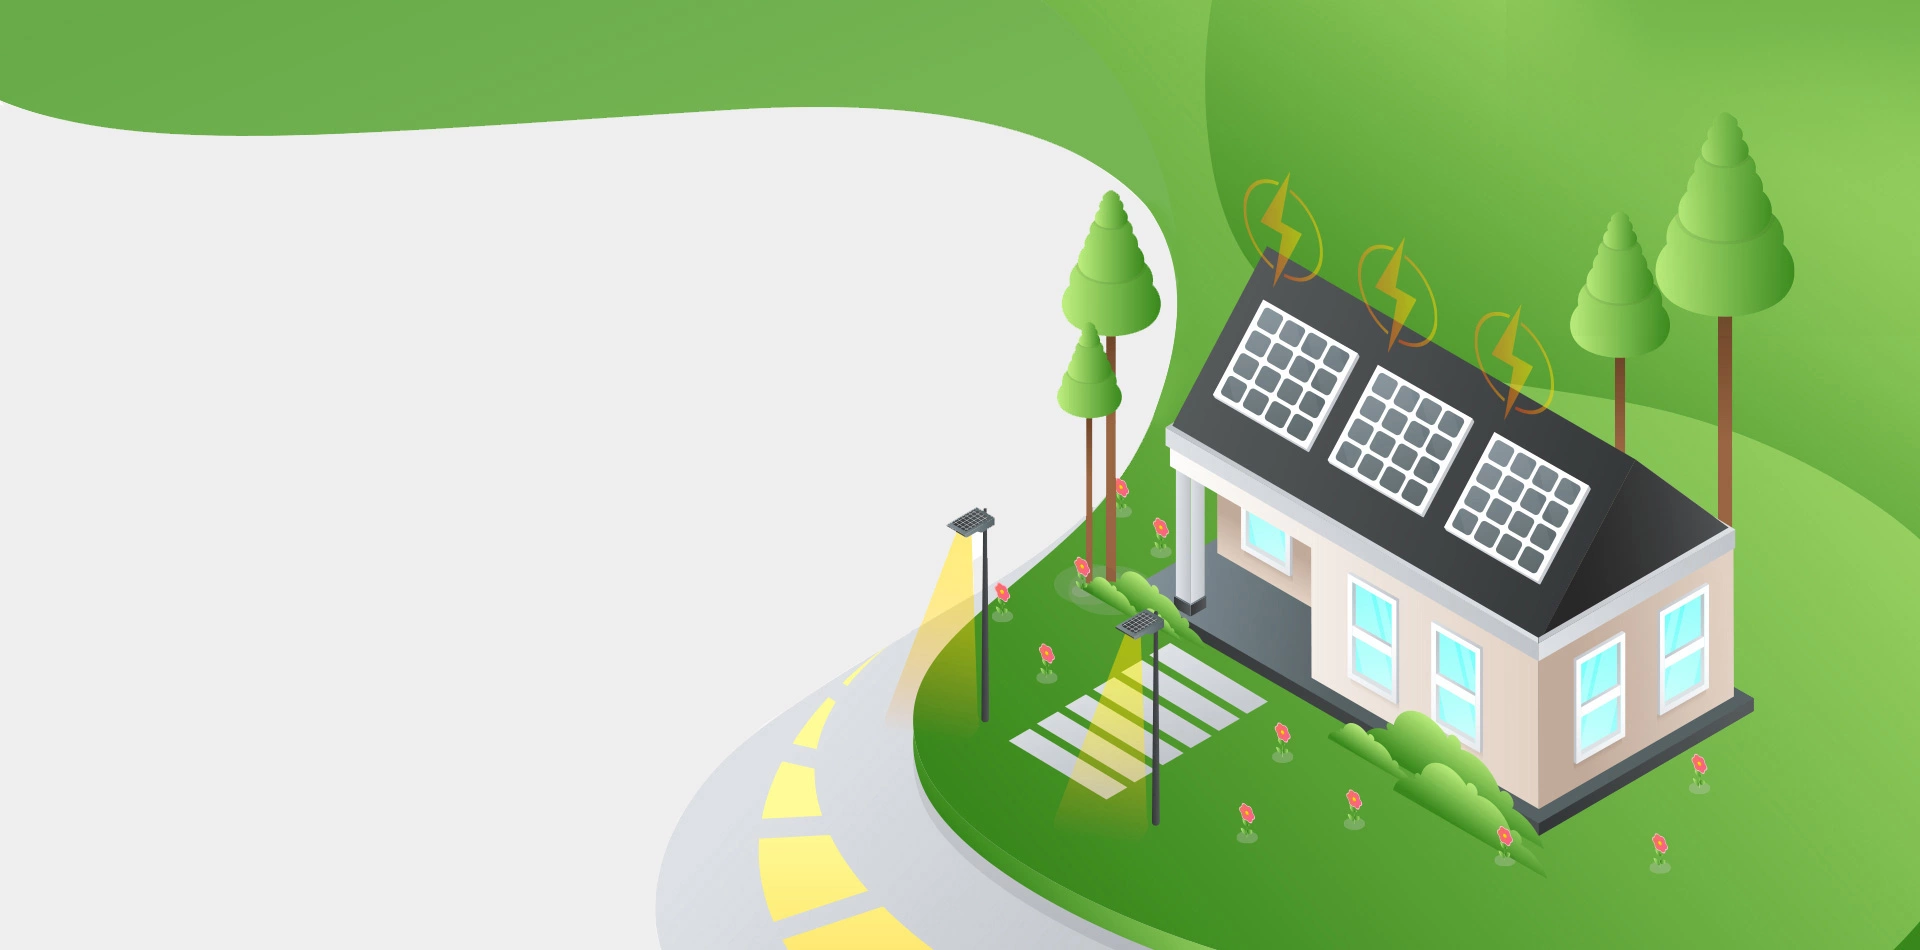
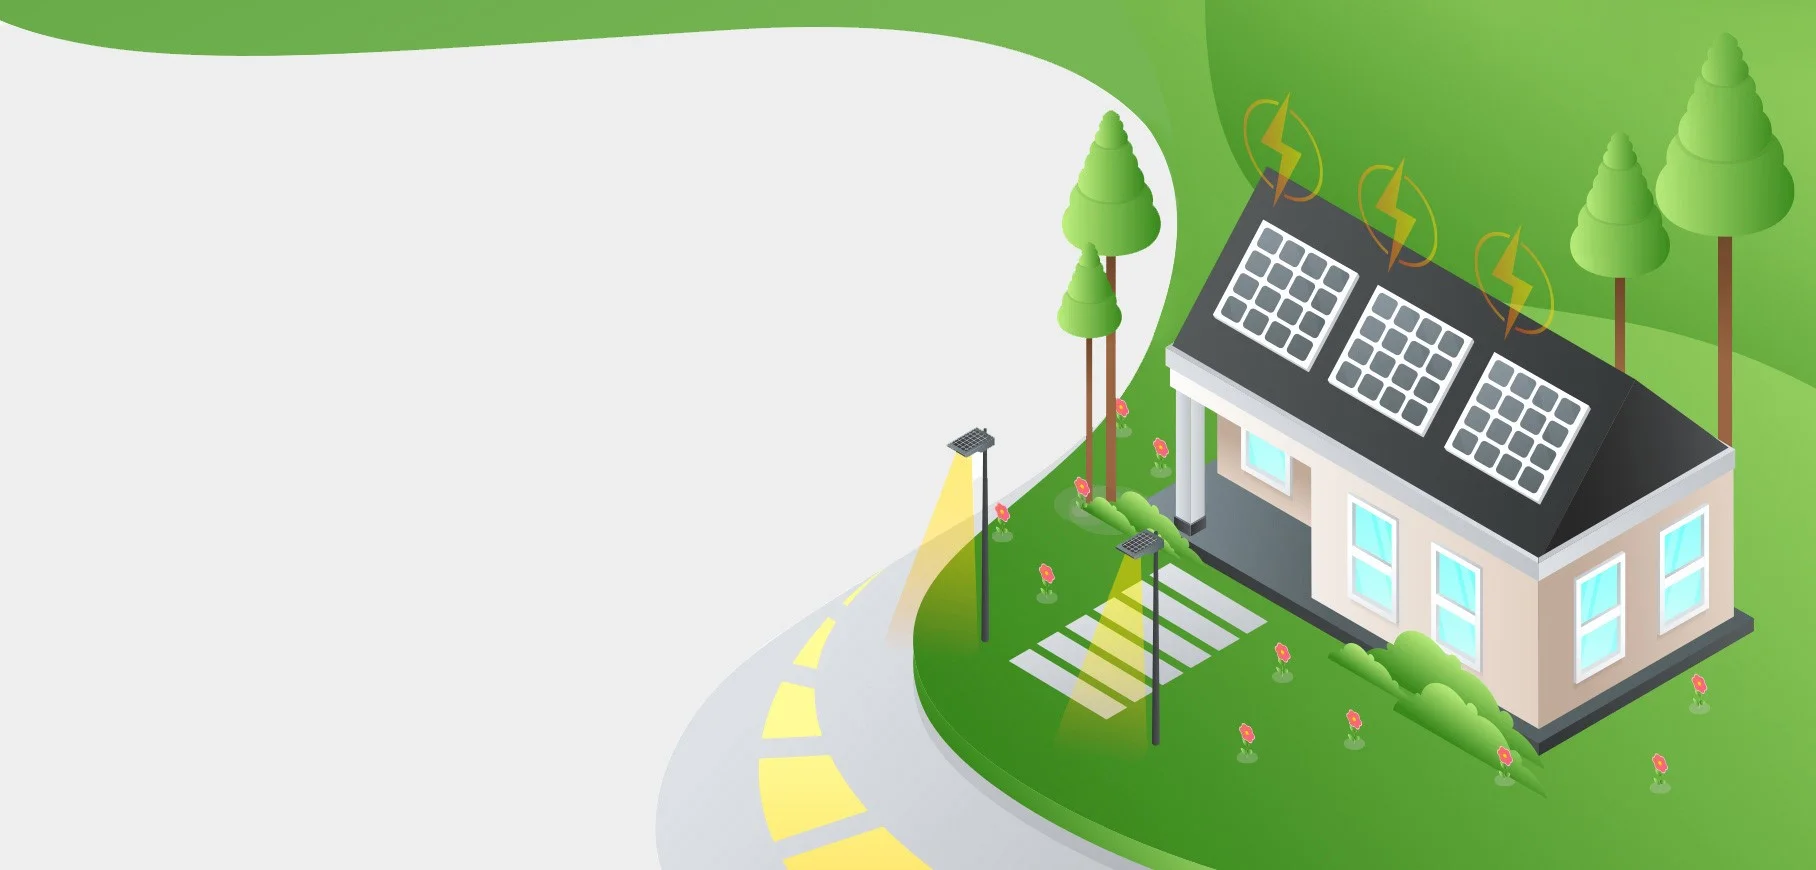
changing nav

Changed region(s): [[0.0, 0.031, 1.0, 1.0], [0.9868, 0.9621, 1.0, 1.0], [0.8943, 0.869, 0.9251, 0.9]]

diff --git a/src/components/Header/Navbar/index.tsx b/src/components/Header/Navbar/index.tsx
@@ -6,7 +6,7 @@ import "./styles.css"
 
 export const NavBar = () =>{
   return(
-    <Navbar collapseOnSelect expand="lg" style={{background: "linear-gradient(90deg, rgba(102,177,79,0.9948354341736695) 32%, rgba(102,177,79,0.7959558823529411) 77%)"}} variant="dark">
+    <Navbar collapseOnSelect expand="lg" style={{background: "linear-gradient(90deg, rgba(12,77,129,0.7287289915966386) 32%, rgba(12,77,129,0.7315301120448179) 77%)"}} variant="dark">
   <Container>
   <Navbar.Brand href="#home" style={{fontWeight:"bolder"}}><span className='logoColor'>SOL</span><span className='logoColor2'>ARIC</span></Navbar.Brand>
   <Navbar.Toggle aria-controls="responsive-navbar-nav" />
@@ -15,13 +15,13 @@ export const NavBar = () =>{
       
     </Nav>
     <Nav style={{fontWeight:"bolder"}} >
-    <Nav.Link href="#featuress" style={{color:"white"}}>Home</Nav.Link>
-      <Nav.Link href="#deets" style={{color:"white"}}>Packages</Nav.Link>
-      <Nav.Link href="#memes" style={{color:"white"}}>Solar Calculator</Nav.Link>
-      <Nav.Link href="#memes" style={{color:"white"}}>Services</Nav.Link>
+    <Nav.Link href="#featuress" style={{color:"white",fontSize:"20px"}}>Home</Nav.Link>
+      <Nav.Link href="#deets" style={{color:"white",fontSize:"20px"}}>Packages</Nav.Link>
+      <Nav.Link href="#memes" style={{color:"white",fontSize:"20px"}}>Solar Calculator</Nav.Link>
+      <Nav.Link href="#memes" style={{color:"white",fontSize:"20px"}}>Services</Nav.Link>
       {/* <Nav.Link href="#memes" style={{color:"white"}}>Contact</Nav.Link> */}
       <NavDropdown title={
-        <span style={{color:"white"}}> 
+        <span style={{color:"white",fontSize:"20px"}}> 
           About
         </span>
       } className="#nav-dropdown" id="collasible-nav-dropdown">
@@ -35,5 +35,42 @@ export const NavBar = () =>{
   </Navbar.Collapse>
   </Container>
 </Navbar>
-  )
+)
 } 
+
+{/* <Navbar key="lg" style={{background: "linear-gradient(90deg, rgba(102,177,79,0.9948354341736695) 32%, rgba(102,177,79,0.7959558823529411) 77%)"}} variant="dark" expand="lg" className="mb-3">
+          <Container fluid>
+            <Navbar.Brand href="#home" style={{fontWeight:"bolder"}}><span className='logoColor'>SOL</span><span className='logoColor2'>ARIC</span></Navbar.Brand>
+            <Navbar.Toggle aria-controls={`offcanvasNavbar-expand-lg`} />
+            <Navbar.Offcanvas
+              id={`offcanvasNavbar-expand-lg`}
+              aria-labelledby={`offcanvasNavbarLabel-expand-lg`}
+              placement="end"
+            >
+              <Offcanvas.Header closeButton>
+                <Offcanvas.Title id={`offcanvasNavbarLabel-expand-lg`}>
+                  Offcanvas
+                </Offcanvas.Title>
+              </Offcanvas.Header>
+              <Offcanvas.Body>
+                <Nav className="justify-content-end flex-grow-1 pe-3">
+                  <Nav.Link href="#action1">Home</Nav.Link>
+                  <Nav.Link href="#action2">Link</Nav.Link>
+                  <NavDropdown
+                    title="Dropdown"
+                    id={`offcanvasNavbarDropdown-expand-lg`}
+                  >
+                    <NavDropdown.Item href="#action3">Action</NavDropdown.Item>
+                    <NavDropdown.Item href="#action4">
+                      Another action
+                    </NavDropdown.Item>
+                    <NavDropdown.Divider />
+                    <NavDropdown.Item href="#action5">
+                      Something else here
+                    </NavDropdown.Item>
+                  </NavDropdown>
+                </Nav>
+              </Offcanvas.Body>
+            </Navbar.Offcanvas>
+          </Container>
+        </Navbar> */}

diff --git a/src/components/ContactUs/ContactUs.tsx b/src/components/ContactUs/ContactUs.tsx
@@ -93,6 +93,7 @@ const styles ={
         height:"45px",
         cursor:"pointer",
         borderRadius:"30px",
+        marginX:"8px",
         display:"flex",
         color:"#04610d",
         "&:hover":{
@@ -136,20 +137,28 @@ const styles ={
         '@media (max-width : 970px)':{
             width:"80%",
             } ,
-            '@media (max-width : 400px)':{
-                fontSize:"25px"
+            '@media (max-width : 340px)':{
+                fontSize:"20px",
+                width:"90%"
                 } 
+                // ,
+                // '@media (max-width : 400px)':{
+                //     fontSize:"25px"
+                //     } 
     },
     LocationAndContact:{
         fontSize:"16px",
         fontFamily:"Montserrat,sans-serif",
         '@media (max-width : 350px)':{
-            fontSize:"12px",
+            fontSize:"10px",
             }
     },
     smallCallHeading:{
         fontSize:"25px",
-        fontFamily:"Montserrat,sans-serif"
+        fontFamily:"Montserrat,sans-serif", 
+        '@media (max-width : 340px)':{
+            fontSize:"18px",
+            } 
     },
     NumberHeading:{
         fontSize:"40px",
@@ -164,7 +173,7 @@ const styles ={
                     fontSize:"20px",
                     } , 
                     '@media (max-width : 340px)':{
-                        fontSize:"17px",
+                        fontSize:"13px",
                         } 
     },
     contactDetails:{
@@ -241,13 +250,13 @@ It is a long established fact that a reader will be distracted by the readable c
             {/* <Box sx={styles.contactDetails}> */}
             
             <Heading sx={styles.LocationAndContact}>
-                <span  className='iconMargin'><LocationOnIcon/></span>Wapda Mangla Colony, Wapda office, Pakistan
+                <span  className='iconMargin'><LocationOnIcon  className="iconStyles2"/></span>Wapda Mangla Colony, Wapda office, Pakistan
             </Heading>
             <Heading sx={styles.LocationAndContact}>
-            <span  className='iconMargin'><PublicIcon/></span>www.NetMetering.com
+            <span  className='iconMargin'><PublicIcon  className="iconStyles2"/></span>www.NetMetering.com
             </Heading>
             <Heading sx={styles.LocationAndContact}>
-            <span  className='iconMargin'><EmailIcon/></span>WebDeveloper.Bilal@gmail.com
+            <span  className='iconMargin'><EmailIcon  className="iconStyles2"/></span>WebDeveloper.Bilal@gmail.com
             </Heading>
             
 <Box sx={styles.callBox}>

diff --git a/src/pages/index.tsx b/src/pages/index.tsx
@@ -1,5 +1,4 @@
 import React from "react"
-import { Slider2 } from "../components/Carousel/Slider2"
 import ContactUs from "../components/ContactUs/ContactUs"
 import {NavBar} from "../components/Header/Navbar"
 import Hero from "../components/HomeDisplay/Hero"
@@ -10,26 +9,23 @@ import Services from "../components/Services/Services"
 import Insight from "../components/Insights/Insights"
 import Packages from "../components/Packages/Packages"
 import GetUs from "../components/GetUs/GetUs"
+import { Box } from "theme-ui"
 
 export default function Home() {
-  return <div>
+  return <Box>
     <><link rel="preconnect" href="https://fonts.googleapis.com"/>
 <link rel="preconnect" href="https://fonts.gstatic.com" cross-origin/>
-<link href="https://fonts.googleapis.com/css2?family=Gideon+Roman&family=Montserrat:wght@100;200;300;400;500;600;700;800;900&display=swap" rel="stylesheet"/></>
+<link href="https://fonts.googleapis.com/css2?family=Gideon+Roman&family=Montserrat:wght@100;200;300;400;500;600;700;800;900&display=swap" rel="stylesheet"/>
+</>
      <NavBar/>
    <Hero/>
     <Part2/>
     <Services/>
     <Insight/>
-    <Testimonial/> 
+    <Testimonial/>
     <GetUs/>
     <Packages/>
 <Partners/>
 <ContactUs/>
-  </div>
+  </Box>
 }
-/***
- * calculator
- * packages
- * gallery
- */

diff --git a/src/components/HomeDisplay/Hero.tsx b/src/components/HomeDisplay/Hero.tsx
@@ -6,12 +6,12 @@ import { Box, Heading, Text,Button } from 'theme-ui'
 import './styles.css'
 const styles = {
   mainBox:{
-  marginTop:"-65px",
+  // marginTop:"-65px",
   backgroundImage:`url(${head})`,
   backgroundRepeat:"no-repeat",
   backgroundSize:"cover",
   width:"100%",
-  height:"720px"
+  height:"590px"
 },
     mainHeading:{
             fontSize:"60px",
@@ -42,7 +42,7 @@ const styles = {
           
     },
     subBox:{
-        marginTop:"300px",
+        marginTop:"200px",
         marginLeft:"50px",
         '@media (max-width:530px )': {
             marginLeft:"30px"
@@ -109,7 +109,7 @@ buttonVariant:{
         color:"#002A4C",
         background:"transparent",
         border:"2px solid #002A4C"
-    },
+      },
     "&:active":{
         color:"#002A4C",
         background:"transparent",

diff --git a/src/components/Header/Navbar/styles.css b/src/components/Header/Navbar/styles.css
@@ -4,15 +4,18 @@
 .logoColor{
     /* color: rgb(16, 155, 173); */
     color: rgb(255, 255, 255);
-font-size: 25px;
+font-size: 35px;
 }
 .logoColor2{
     /* color: rgb(6, 55, 133); */
     color: rgb(255, 255, 255);
     font-style: italic;
-font-size: 25px;
+font-size: 35px;
     font-family: 'Trebuchet MS', 'Lucida Sans Unicode', 'Lucida Grande', 'Lucida Sans', Arial, sans-serif;
 }
 .navLinkColors{
     color:rgb(16, 155, 173)
+}
+.row-col-8{
+    float:right;
 }

diff --git a/src/pages/packages.tsx b/src/pages/packages.tsx
@@ -1,0 +1,12 @@
+import React from 'react'
+import { Box } from 'theme-ui'
+
+const packages = () => {
+  return (
+    <Box>
+        Packages
+    </Box>
+  )
+}
+
+export default packages

diff --git a/src/components/ContactUs/index.css b/src/components/ContactUs/index.css
@@ -16,6 +16,9 @@
     .iconStyles{
         font-size: 20px;
     }  
+    .iconStyles2{
+        font-size: 14px;
+    }  
     .iconMargin{
         margin:5px;
     }
